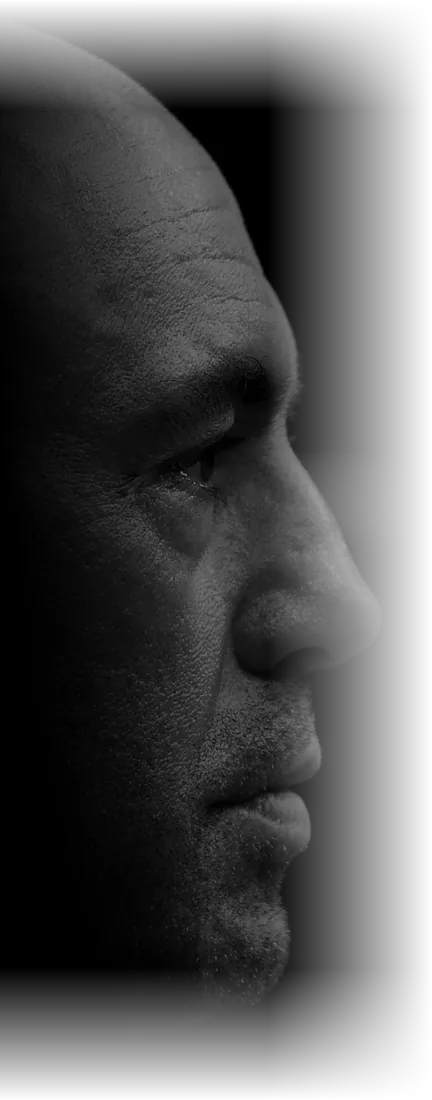
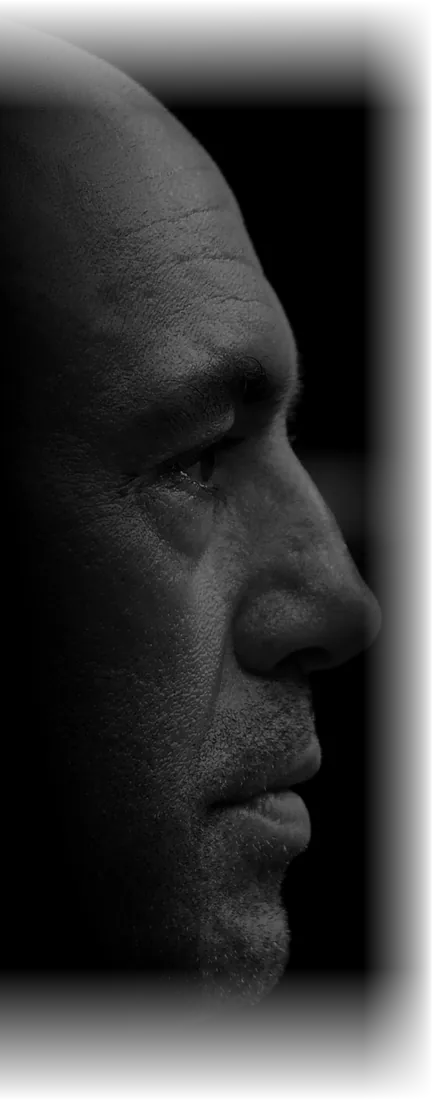
Rogan portrait: narrow the right-edge fade so the nose keeps its light
Baked fade reduced from 38% linear to 16% eased — profile stays lit, still melts into the black

diff --git a/collections/product-spicy-pineapple-cbd.html b/collections/product-spicy-pineapple-cbd.html
@@ -21,7 +21,7 @@
   <link rel="preload" href="../assets/fonts/Outfit-VariableFont_wght.woff2" as="font" type="font/woff2" crossorigin />
   <link rel="preload" href="../assets/fonts/Rajdhani-Regular.woff2" as="font" type="font/woff2" crossorigin />
   <link rel="preload" as="image" href="../assets/hero/spicy-pineapple-cbd/01.webp" />
-  <link rel="stylesheet" href="../css/styles.css?v=94" />
+  <link rel="stylesheet" href="../css/styles.css?v=95" />
 
   <script type="application/ld+json">
   {
@@ -456,7 +456,7 @@
     </div>
   </footer>
 
-  <script src="../js/main.js?v=94"></script>
+  <script src="../js/main.js?v=95"></script>
   <script>
   (function () {
     /* ---- hero image slider (thumbs) ---- */

diff --git a/collections/product-tasty-blood-orange.html b/collections/product-tasty-blood-orange.html
@@ -21,7 +21,7 @@
   <link rel="preload" href="../assets/fonts/Outfit-VariableFont_wght.woff2" as="font" type="font/woff2" crossorigin />
   <link rel="preload" href="../assets/fonts/Rajdhani-Regular.woff2" as="font" type="font/woff2" crossorigin />
   <link rel="preload" as="image" href="../assets/hero/tasty-blood-orange/01.webp" />
-  <link rel="stylesheet" href="../css/styles.css?v=94" />
+  <link rel="stylesheet" href="../css/styles.css?v=95" />
 
   <script type="application/ld+json">
   {
@@ -456,7 +456,7 @@
     </div>
   </footer>
 
-  <script src="../js/main.js?v=94"></script>
+  <script src="../js/main.js?v=95"></script>
   <script>
   (function () {
     /* ---- hero image slider (thumbs) ---- */

diff --git a/collections/product-killer-cliffsicle.html b/collections/product-killer-cliffsicle.html
@@ -21,7 +21,7 @@
   <link rel="preload" href="../assets/fonts/Outfit-VariableFont_wght.woff2" as="font" type="font/woff2" crossorigin />
   <link rel="preload" href="../assets/fonts/Rajdhani-Regular.woff2" as="font" type="font/woff2" crossorigin />
   <link rel="preload" as="image" href="../assets/hero/killer-cliffsicle/01.webp" />
-  <link rel="stylesheet" href="../css/styles.css?v=94" />
+  <link rel="stylesheet" href="../css/styles.css?v=95" />
 
   <script type="application/ld+json">
   {
@@ -456,7 +456,7 @@
     </div>
   </footer>
 
-  <script src="../js/main.js?v=94"></script>
+  <script src="../js/main.js?v=95"></script>
   <script>
   (function () {
     /* ---- hero image slider (thumbs) ---- */

diff --git a/collections/product-smashing-citrus.html b/collections/product-smashing-citrus.html
@@ -21,7 +21,7 @@
   <link rel="preload" href="../assets/fonts/Outfit-VariableFont_wght.woff2" as="font" type="font/woff2" crossorigin />
   <link rel="preload" href="../assets/fonts/Rajdhani-Regular.woff2" as="font" type="font/woff2" crossorigin />
   <link rel="preload" as="image" href="../assets/hero/smashing-citrus/01.webp" />
-  <link rel="stylesheet" href="../css/styles.css?v=94" />
+  <link rel="stylesheet" href="../css/styles.css?v=95" />
 
   <script type="application/ld+json">
   {
@@ -456,7 +456,7 @@
     </div>
   </footer>
 
-  <script src="../js/main.js?v=94"></script>
+  <script src="../js/main.js?v=95"></script>
   <script>
   (function () {
     /* ---- hero image slider (thumbs) ---- */

diff --git a/collections/product-spicy-pineapple.html b/collections/product-spicy-pineapple.html
@@ -21,7 +21,7 @@
   <link rel="preload" href="../assets/fonts/Outfit-VariableFont_wght.woff2" as="font" type="font/woff2" crossorigin />
   <link rel="preload" href="../assets/fonts/Rajdhani-Regular.woff2" as="font" type="font/woff2" crossorigin />
   <link rel="preload" as="image" href="../assets/hero/spicy-pineapple/01.webp" />
-  <link rel="stylesheet" href="../css/styles.css?v=94" />
+  <link rel="stylesheet" href="../css/styles.css?v=95" />
 
   <script type="application/ld+json">
   {
@@ -456,7 +456,7 @@
     </div>
   </footer>
 
-  <script src="../js/main.js?v=94"></script>
+  <script src="../js/main.js?v=95"></script>
   <script>
   (function () {
     /* ---- hero image slider (thumbs) ---- */

diff --git a/collections/product-berry-lemonade.html b/collections/product-berry-lemonade.html
@@ -21,7 +21,7 @@
   <link rel="preload" href="../assets/fonts/Outfit-VariableFont_wght.woff2" as="font" type="font/woff2" crossorigin />
   <link rel="preload" href="../assets/fonts/Rajdhani-Regular.woff2" as="font" type="font/woff2" crossorigin />
   <link rel="preload" as="image" href="../assets/hero/berry-lemonade/01.webp" />
-  <link rel="stylesheet" href="../css/styles.css?v=94" />
+  <link rel="stylesheet" href="../css/styles.css?v=95" />
 
   <script type="application/ld+json">
   {
@@ -456,7 +456,7 @@
     </div>
   </footer>
 
-  <script src="../js/main.js?v=94"></script>
+  <script src="../js/main.js?v=95"></script>
   <script>
   (function () {
     /* ---- hero image slider (thumbs) ---- */

diff --git a/collections/product-cherry-lime.html b/collections/product-cherry-lime.html
@@ -21,7 +21,7 @@
   <link rel="preload" href="../assets/fonts/Outfit-VariableFont_wght.woff2" as="font" type="font/woff2" crossorigin />
   <link rel="preload" href="../assets/fonts/Rajdhani-Regular.woff2" as="font" type="font/woff2" crossorigin />
   <link rel="preload" as="image" href="../assets/hero/cherry-lime/01.webp" />
-  <link rel="stylesheet" href="../css/styles.css?v=94" />
+  <link rel="stylesheet" href="../css/styles.css?v=95" />
 
   <script type="application/ld+json">
   {
@@ -456,7 +456,7 @@
     </div>
   </footer>
 
-  <script src="../js/main.js?v=94"></script>
+  <script src="../js/main.js?v=95"></script>
   <script>
   (function () {
     /* ---- hero image slider (thumbs) ---- */

diff --git a/collections/product-orange-kush.html b/collections/product-orange-kush.html
@@ -21,7 +21,7 @@
   <link rel="preload" href="../assets/fonts/Outfit-VariableFont_wght.woff2" as="font" type="font/woff2" crossorigin />
   <link rel="preload" href="../assets/fonts/Rajdhani-Regular.woff2" as="font" type="font/woff2" crossorigin />
   <link rel="preload" as="image" href="../assets/hero/orange-kush/01.webp" />
-  <link rel="stylesheet" href="../css/styles.css?v=94" />
+  <link rel="stylesheet" href="../css/styles.css?v=95" />
 
   <script type="application/ld+json">
   {
@@ -456,7 +456,7 @@
     </div>
   </footer>
 
-  <script src="../js/main.js?v=94"></script>
+  <script src="../js/main.js?v=95"></script>
   <script>
   (function () {
     /* ---- hero image slider (thumbs) ---- */

diff --git a/collections/product-lemon-lime.html b/collections/product-lemon-lime.html
@@ -21,7 +21,7 @@
   <link rel="preload" href="../assets/fonts/Outfit-VariableFont_wght.woff2" as="font" type="font/woff2" crossorigin />
   <link rel="preload" href="../assets/fonts/Rajdhani-Regular.woff2" as="font" type="font/woff2" crossorigin />
   <link rel="preload" as="image" href="../assets/hero/lemon-lime/01.webp" />
-  <link rel="stylesheet" href="../css/styles.css?v=94" />
+  <link rel="stylesheet" href="../css/styles.css?v=95" />
 
   <script type="application/ld+json">
   {
@@ -456,7 +456,7 @@
     </div>
   </footer>
 
-  <script src="../js/main.js?v=94"></script>
+  <script src="../js/main.js?v=95"></script>
   <script>
   (function () {
     /* ---- hero image slider (thumbs) ---- */

diff --git a/collections/product-elk-blood.html b/collections/product-elk-blood.html
@@ -21,7 +21,7 @@
   <link rel="preload" href="../assets/fonts/Outfit-VariableFont_wght.woff2" as="font" type="font/woff2" crossorigin />
   <link rel="preload" href="../assets/fonts/Rajdhani-Regular.woff2" as="font" type="font/woff2" crossorigin />
   <link rel="preload" as="image" href="../assets/hero/elk-blood/01.webp" />
-  <link rel="stylesheet" href="../css/styles.css?v=94" />
+  <link rel="stylesheet" href="../css/styles.css?v=95" />
 
   <script type="application/ld+json">
   {
@@ -456,7 +456,7 @@
     </div>
   </footer>
 
-  <script src="../js/main.js?v=94"></script>
+  <script src="../js/main.js?v=95"></script>
   <script>
   (function () {
     /* ---- hero image slider (thumbs) ---- */

diff --git a/collections/ready-to-mix.html b/collections/ready-to-mix.html
@@ -21,7 +21,7 @@
   <link rel="preload" href="../assets/fonts/Outfit-VariableFont_wght.woff2" as="font" type="font/woff2" crossorigin />
   <link rel="preload" href="../assets/fonts/Rajdhani-Regular.woff2" as="font" type="font/woff2" crossorigin />
   <link rel="preload" as="image" href="../assets/hero/elk-blood/01.webp" />
-  <link rel="stylesheet" href="../css/styles.css?v=94" />
+  <link rel="stylesheet" href="../css/styles.css?v=95" />
 
   <script type="application/ld+json">
   {
@@ -431,7 +431,7 @@
     </div>
   </footer>
 
-  <script src="../js/main.js?v=94"></script>
+  <script src="../js/main.js?v=95"></script>
   <script>
   (function () {
     /* ---- hero image slider (thumbs) ---- */

diff --git a/collections/product-the-goat.html b/collections/product-the-goat.html
@@ -21,7 +21,7 @@
   <link rel="preload" href="../assets/fonts/Outfit-VariableFont_wght.woff2" as="font" type="font/woff2" crossorigin />
   <link rel="preload" href="../assets/fonts/Rajdhani-Regular.woff2" as="font" type="font/woff2" crossorigin />
   <link rel="preload" as="image" href="../assets/hero/the-goat/01.webp" />
-  <link rel="stylesheet" href="../css/styles.css?v=94" />
+  <link rel="stylesheet" href="../css/styles.css?v=95" />
 
   <script type="application/ld+json">
   {
@@ -456,7 +456,7 @@
     </div>
   </footer>
 
-  <script src="../js/main.js?v=94"></script>
+  <script src="../js/main.js?v=95"></script>
   <script>
   (function () {
     /* ---- hero image slider (thumbs) ---- */
